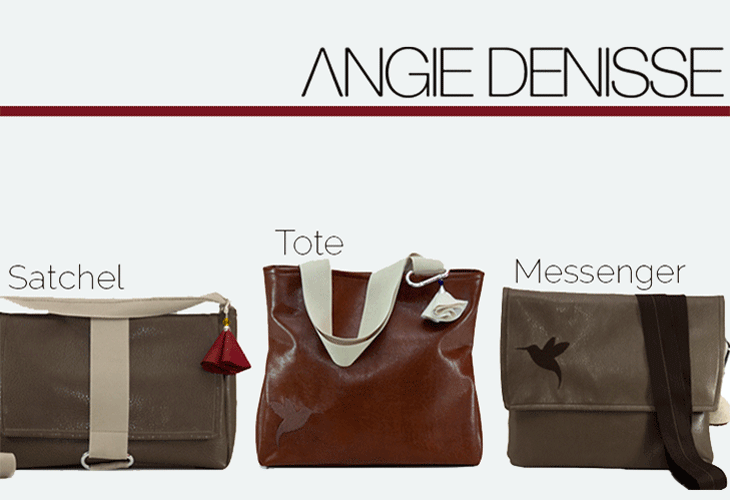
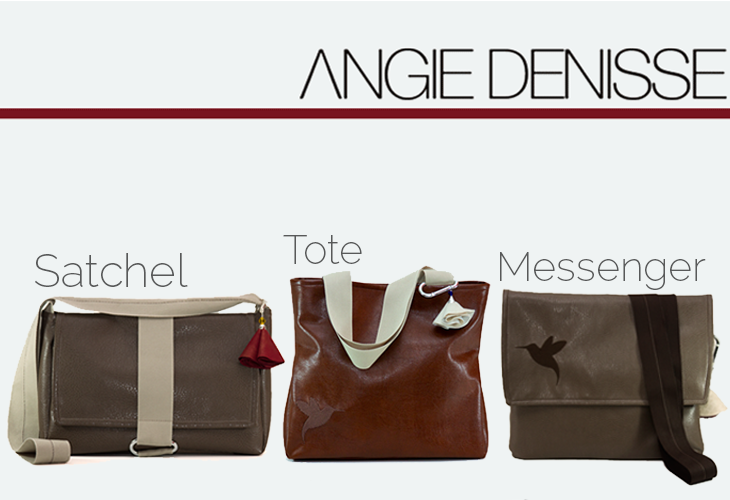
changes

Changed region(s): [[0.0, 0.45, 1.0, 0.99], [0.0, 0.09, 1.0, 0.24], [0.7534, 0.66, 0.7836, 0.72]]

diff --git a/src/Tresepic/BoprBundle/Resources/public/css/main.css b/src/Tresepic/BoprBundle/Resources/public/css/main.css
@@ -245,6 +245,43 @@ header .navMenu li.custom {
 	width: 730px;
 }
 
+#content .static1 #carouselBanner {
+	margin: 0 20px;
+	height: 500px;
+}
+
+#content .static1 #carouselBanner.mobile {
+	height: auto;
+	margin: 0;	
+}
+
+#content .static1 #carouselBanner .carousel-inner {
+	height: 100%;	
+}
+
+#content .static1 #carouselBanner .carousel-inner>.item {
+	width: 100% !important;
+}
+
+#content .static1 #carouselBanner .carousel-inner>.item>img {
+	height: 100%;
+}
+
+#content .static1 #carouselBanner.mobile .carousel-inner>.item>img {
+	height: auto;
+	width: 100%;
+}
+
+#content .static1 #carouselBanner .carousel-control.right,
+#content .static1 #carouselBanner .carousel-control.left {
+	width: 10%;
+	background: none;
+}
+
+#content .static1 #carouselBanner .carousel-indicators {
+	bottom: 0px;
+}
+
 #content .static1 .top .right {
 	margin-left: 5px;
 	padding: 0;
@@ -452,6 +489,17 @@ header .navMenu li.custom {
 	width: 140px;
 }
 
+#content .addToCart {
+	-webkit-transition: .3s;
+	transition: .3s;
+}
+
+#content .addToCart:hover {
+	color: #FFFFFF !important;
+	background: #e50f0f !important;
+	
+}
+
 #content .productShow .static1 {
 	background-color: #dfdfdf;
 	float: right;
@@ -471,6 +519,25 @@ header .navMenu li.custom {
 #content .products {
 	margin-top: 40px;
 }
+
+#content #carouselProducts .col-xs-6 {
+	padding: 0 10px;	
+}
+
+#content #carouselProducts .carousel-control.left,
+#content #carouselProducts .carousel-control.right {
+	background: none;
+	width: 50px;
+	color: #000000;
+	left: -60px;
+}
+
+#content #carouselProducts .carousel-control.right {
+	left: auto;
+	right: -60px;	
+}
+
+	
 
 #content .products .article {
 	float: left;
@@ -512,6 +579,10 @@ header .navMenu li.custom {
 #content .products .articleMobile p {
 	margin-top: 15px;
 	text-align: center;
+}
+
+#content .products .articleMobile p.title {
+	min-height: 44px;
 }
 
 #content .products .articleMobile span {
@@ -770,6 +841,7 @@ footer .info4 .menuFooter li {
 }
 
 footer .info4 .copyright {
+	width: 100%;
 	color: #c7c0b9;
 	font-size: 14px;
 	height: 20px;
@@ -803,8 +875,19 @@ and (max-width:350px) {
 		padding: 0 0 0 20px;
 	}
 	
-	footer .info4 .menuFooter {
-    	margin-left: 60px !important;
+	footer .info4 .menuFooter li {
+    	width: 50%;
+		text-align: center;
+		margin: 0;
+	}
+	
+	footer .info4 .copyright span.rights {
+		display: block;
+		color: #c7c0b9;
+	}
+	
+	footer .info4 .menuFooter li:first-child {
+		width: 100%;
 	}
 	
 	.static2ColR {
@@ -848,6 +931,14 @@ and (max-width:767px) {
 	
 	#content .sidebar {
 		display: none;
+	}
+	
+	#content #carouselProducts .carousel-control.left{
+		left: -38px;
+	}
+
+	#content #carouselProducts .carousel-control.right {
+		right: -38px;	
 	}
 	
 	#content .productList {
@@ -963,6 +1054,14 @@ and (max-width : 991px) {
 	
 	#content .sidebar {
 		display: none;
+	}
+	
+	#content #carouselProducts .carousel-control.left{
+		left: -30px;
+	}
+
+	#content #carouselProducts .carousel-control.right {
+		right: -40px;	
 	}
 	
 	#content .productList {
@@ -1086,6 +1185,14 @@ and (max-width : 1199px) {
 	
 	#content .sidebar {
 		display: none;
+	}
+	
+	#content #carouselProducts .carousel-control.left{
+		left: -40px;
+	}
+
+	#content #carouselProducts .carousel-control.right {
+		right: -50px;	
 	}
 	
 	#content .productList .static1 {
